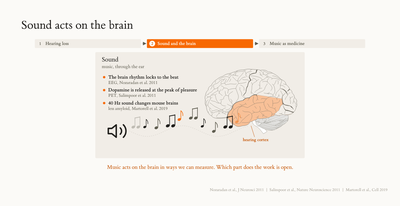
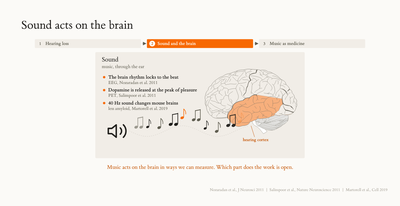
Slide 25: the Für Elise demo alone, larger and centered
Claude-Session: https://claude.ai/code/session_01CwywQbHke1EKdwXqbCrAvs

Changed region(s): [[0.33, 0.466, 0.72, 0.6408]]

diff --git a/graph-inside/2026-11-19-cs-colloquium/index.html b/graph-inside/2026-11-19-cs-colloquium/index.html
@@ -1250,7 +1250,7 @@ else if(m==1){var d1=(i==FI.length-1)?2600:1500;if(now-last>d1){i=(i+1)%FI.lengt
 
 <section data-ch="2">
   <h2>A tiny graph is enough to represent a piece of music</h2><span class="graphtag"><svg viewBox="0 0 22 14"><line x1="3" y1="11" x2="11" y2="3" stroke="currentColor" stroke-width="1.3"/><line x1="11" y1="3" x2="19" y2="11" stroke="currentColor" stroke-width="1.3"/><line x1="3" y1="11" x2="19" y2="11" stroke="currentColor" stroke-width="1.3"/><circle cx="3" cy="11" r="2.4" fill="currentColor"/><circle cx="11" cy="3" r="2.4" fill="currentColor"/><circle cx="19" cy="11" r="2.4" fill="currentColor"/></svg><b>graph 5 of 7</b> note transition graph, a Markov chain</span><span class="status progress">In progress</span>
-  <svg viewBox="0 0 1180 478" style="width:100%;max-width:1160px;height:auto;max-height:478px;display:block;margin:0 auto"><defs><marker id="dm2a" viewBox="0 0 10 10" refX="8" refY="5" markerWidth="6" markerHeight="6" orient="auto-start-reverse"><path d="M0,0 L10,5 L0,10 z" fill="#5F5D50"/></marker><marker id="dm2o" viewBox="0 0 10 10" refX="8" refY="5" markerWidth="6" markerHeight="6" orient="auto-start-reverse"><path d="M0,0 L10,5 L0,10 z" fill="#F76902"/></marker><marker id="dm2t" viewBox="0 0 10 10" refX="8" refY="5" markerWidth="6" markerHeight="6" orient="auto-start-reverse"><path d="M0,0 L10,5 L0,10 z" fill="#4C5B66"/></marker><marker id="dm2k" viewBox="0 0 10 10" refX="8" refY="5" markerWidth="6" markerHeight="6" orient="auto-start-reverse"><path d="M0,0 L10,5 L0,10 z" fill="#1F1E1B"/></marker><marker id="dm2g" viewBox="0 0 10 10" refX="8" refY="5" markerWidth="6" markerHeight="6" orient="auto-start-reverse"><path d="M0,0 L10,5 L0,10 z" fill="#ACA39A"/></marker><radialGradient id="dm2gl"><stop offset="0" stop-color="#F76902" stop-opacity=".5"/><stop offset="1" stop-color="#F76902" stop-opacity="0"/></radialGradient><radialGradient id="dm2gt"><stop offset="0" stop-color="#4C5B66" stop-opacity=".45"/><stop offset="1" stop-color="#4C5B66" stop-opacity="0"/></radialGradient></defs><defs><marker id="axk" viewBox="0 0 10 10" refX="8" refY="5" markerWidth="5" markerHeight="5" orient="auto"><path d="M0,0 L10,5 L0,10 z" fill="#1F1E1B"/></marker></defs><foreignObject x="20" y="10" width="740" height="410"><div xmlns="http://www.w3.org/1999/xhtml" style="width:740px;height:410px;border-radius:3px;overflow:hidden;box-shadow:0 0 0 1.5px #D7D2CB,0 10px 30px rgba(17,17,17,.10)"><iframe class="fe-frame" data-src="figs/fe-chain.html?autoplay=1" title="Für Elise Markov chain" style="width:740px;height:410px;border:0;background:#fff"></iframe></div></foreignObject><text x="790" y="34" font-size="16.5" font-weight="600" fill="#5F5D50" text-anchor="start" >Coming up in Part 2</text><rect x="790" y="50" width="370" height="80" rx="3" fill="#F1EDE7" stroke="none" stroke-width="0" /><circle cx="818" cy="90" r="13" fill="#4C5B66" stroke="none" stroke-width="1.5" /><text x="818" y="95" font-size="16" font-weight="600" fill="#fff" text-anchor="middle" >1</text><text x="846" y="84" font-size="19" font-weight="600" fill="#1F1E1B" text-anchor="start" >This graph names the style</text><text x="846" y="108" font-size="16" font-weight="400" fill="#5F5D50" text-anchor="start" >which of 6 traditions: about 70% right</text><text x="1148" y="84" font-size="16.5" font-weight="600" fill="#4C5B66" text-anchor="end" >chance 17%</text><g class="fragment" data-fragment-index="2"><rect x="790" y="142" width="370" height="80" rx="3" fill="#F1EDE7" stroke="none" stroke-width="0" /><circle cx="818" cy="182" r="13" fill="#4C5B66" stroke="none" stroke-width="1.5" /><text x="818" y="187" font-size="16" font-weight="600" fill="#fff" text-anchor="middle" >2</text><text x="846" y="176" font-size="19" font-weight="600" fill="#1F1E1B" text-anchor="start" >Richer nodes do better</text><text x="846" y="200" font-size="16" font-weight="400" fill="#5F5D50" text-anchor="start" >a node is a note plus its length</text><text x="1148" y="176" font-size="16.5" font-weight="600" fill="#4C5B66" text-anchor="end" ></text></g><g class="fragment" data-fragment-index="3"><rect x="790" y="234" width="370" height="80" rx="3" fill="#F1EDE7" stroke="none" stroke-width="0" /><circle cx="818" cy="274" r="13" fill="#4C5B66" stroke="none" stroke-width="1.5" /><text x="818" y="279" font-size="16" font-weight="600" fill="#fff" text-anchor="middle" >3</text><text x="846" y="268" font-size="19" font-weight="600" fill="#1F1E1B" text-anchor="start" >The listener's graph</text><text x="846" y="292" font-size="16" font-weight="400" fill="#5F5D50" text-anchor="start" >its surprise matches brain signals</text><text x="1148" y="268" font-size="16.5" font-weight="600" fill="#4C5B66" text-anchor="end" ></text></g><g class="fragment" data-fragment-index="4"><rect x="790" y="326" width="370" height="80" rx="3" fill="#F1EDE7" stroke="none" stroke-width="0" /><circle cx="818" cy="366" r="13" fill="#FBFAF7" stroke="#4C5B66" stroke-width="1.5" stroke-dasharray="4 3"/><text x="818" y="371" font-size="16" font-weight="600" fill="#4C5B66" text-anchor="middle" >4</text><text x="846" y="360" font-size="19" font-weight="600" fill="#1F1E1B" text-anchor="start" >A graph inside MusicGen</text><text x="846" y="384" font-size="16" font-weight="400" fill="#5F5D50" text-anchor="start" >our next step</text><text x="1148" y="360" font-size="16.5" font-weight="600" fill="#5F5D50" text-anchor="end" ></text></g><text font-family="et-book,Georgia,serif" style="font-size-adjust:none" x="590" y="466" font-size="26.0" font-weight="400" fill="#1F1E1B" text-anchor="middle" >A tiny graph already captures a style.</text></svg>
+  <svg viewBox="0 0 1180 456" style="width:100%;max-width:1160px;height:auto;max-height:456px;display:block;margin:0 auto"><defs><marker id="dm2a" viewBox="0 0 10 10" refX="8" refY="5" markerWidth="6" markerHeight="6" orient="auto-start-reverse"><path d="M0,0 L10,5 L0,10 z" fill="#5F5D50"/></marker><marker id="dm2o" viewBox="0 0 10 10" refX="8" refY="5" markerWidth="6" markerHeight="6" orient="auto-start-reverse"><path d="M0,0 L10,5 L0,10 z" fill="#F76902"/></marker><marker id="dm2t" viewBox="0 0 10 10" refX="8" refY="5" markerWidth="6" markerHeight="6" orient="auto-start-reverse"><path d="M0,0 L10,5 L0,10 z" fill="#4C5B66"/></marker><marker id="dm2k" viewBox="0 0 10 10" refX="8" refY="5" markerWidth="6" markerHeight="6" orient="auto-start-reverse"><path d="M0,0 L10,5 L0,10 z" fill="#1F1E1B"/></marker><marker id="dm2g" viewBox="0 0 10 10" refX="8" refY="5" markerWidth="6" markerHeight="6" orient="auto-start-reverse"><path d="M0,0 L10,5 L0,10 z" fill="#ACA39A"/></marker><radialGradient id="dm2gl"><stop offset="0" stop-color="#F76902" stop-opacity=".5"/><stop offset="1" stop-color="#F76902" stop-opacity="0"/></radialGradient><radialGradient id="dm2gt"><stop offset="0" stop-color="#4C5B66" stop-opacity=".45"/><stop offset="1" stop-color="#4C5B66" stop-opacity="0"/></radialGradient></defs><defs><marker id="axk" viewBox="0 0 10 10" refX="8" refY="5" markerWidth="5" markerHeight="5" orient="auto"><path d="M0,0 L10,5 L0,10 z" fill="#1F1E1B"/></marker></defs><foreignObject x="190" y="6" width="800" height="444"><div xmlns="http://www.w3.org/1999/xhtml" style="width:800px;height:444px;border-radius:3px;overflow:hidden;box-shadow:0 0 0 1.5px #D7D2CB,0 10px 30px rgba(17,17,17,.10)"><iframe class="fe-frame" data-src="figs/fe-chain.html?autoplay=1" title="Für Elise Markov chain" style="width:800px;height:444px;border:0;background:#fff"></iframe></div></foreignObject></svg>
   <div class="ref">Für Elise opening, animation from zhiqian.ai. Style results: zhiqian.ai/music-markov</div>
   <aside class="notes">If sound fails: skip the click, point at the arrows, and say the ball walks the graph, one move per note. Sound: click the animation once for sound, click again to mute, the animation keeps going. Let the ball learn the opening, then compose. Then the point: this little graph is not a toy. The same 144 numbers per piece, fed to a plain classifier, name the tradition of a piece it has never seen 70.2% of the time across 992 melodies in six corpora, against 41.9% for note counts without order. Bridge: to compare pieces, fold the keys.</aside>
 </section>

diff --git a/graph-inside/2026-11-19-cs-colloquium/src/talk.py b/graph-inside/2026-11-19-cs-colloquium/src/talk.py
@@ -733,22 +733,10 @@ VECTOR = sec('Every surgery is stored as a vector', SVG(g), ch='0',
              ref='Arditi et al., NeurIPS 2024. Meng et al., NeurIPS 2022. Hu et al., LoRA, ICLR 2022. Ilharco et al., ICLR 2023',
              notes='Top row: four ways we change a model today, each drawn as what it adds. Light cells are the model, dark cells are the change: a vector added to the activations, a rank one matrix u times v transposed, LoRA as a tall thin B times a short wide A, and fine tuning as a full matrix of small changes. All the same kind of object, something added. Below, a schematic: every dot is something the model knows or does. Click: an edit moves one fact, Space Needle from Seattle to Paris, that arrow is the vector we added. Click: the ripple effect. Facts that depend on this one should move with it: which country, now France, which currency, now euro. The dashed arrows show where they should go. They do not move. RippleEdits and MQuAKE measure exactly this. Click: locality, the other failure. Facts that have nothing to do with the edit should stay put, and some drift a little anyway. The arrow tells you neither. The dots are an illustration, not data. If asked whether this is solved: no. The 2026 methods that do better, circuit-aware editing and joint neighborhood optimization, all stop editing one point and start editing along the structure. Click: the takeaway. Four surgeries, four one line formulas a CS audience can read. ROME is a rank one LoRA on one layer, which links knowledge editing to something most of the room has used. The point is not the math, it is that each operation is a single added object, and that object carries no information about its side effects. The tools we use to understand models read them the same way: a linear probe, a sparse autoencoder feature, a steering direction, all vectors. Bridge: yet the knowledge these models hold has another shape, a graph, in text, in images and in music.')
 
-# ---- demo: a tiny graph is enough to represent a piece ----
+# ---- demo: a tiny graph is enough to represent a piece (his note Nov 19: the demo alone, nothing else) ----
 g = adefs('dm2')
-g += f'<foreignObject x="20" y="10" width="740" height="410"><div xmlns="http://www.w3.org/1999/xhtml" style="width:740px;height:410px;border-radius:12px;overflow:hidden;box-shadow:0 0 0 1.5px #d3d7da,0 10px 30px rgba(17,17,17,.10)"><iframe class="fe-frame" data-src="figs/fe-chain.html?autoplay=1" title="Für Elise Markov chain" style="width:740px;height:410px;border:0;background:#fff"></iframe></div></foreignObject>'
-g += T(790, 34, 'Coming up in Part 2', 15, 600, MUT)
-MENU = [('1', 'This graph names the style', 'which of 6 traditions: about 70% right', 'chance 17%', False),
-        ('2', 'Richer nodes do better', 'a node is a note plus its length', '', False),
-        ('3', "The listener's graph", 'its surprise matches brain signals', '', False),
-        ('4', 'A graph inside MusicGen', 'our next step', '', True)]
-for k, (num, name, line, val, plan) in enumerate(MENU):
-    y = 50 + k * 92
-    row = R(790, y, 370, 80, SOFT, 'none', 0, 3)
-    row += (C(818, y + 40, 13, '#fff', MU, 1.5, 'stroke-dasharray="4 3"') + T(818, y + 45, num, 14, 600, MU, 'middle')) if plan else (C(818, y + 40, 13, MU) + T(818, y + 45, num, 14, 600, '#fff', 'middle'))
-    row += T(846, y + 34, name, 18, 600, INK) + T(846, y + 58, line, 14, 400, MUT) + T(1148, y + 34, val, 15, 600, MU if not plan else MUT, 'end')
-    g += F(k + 1, row) if k else row
-g += T(590, 466, 'A tiny graph already captures a style.', 20, 700, INK, 'middle')
-DEMO2 = sec('A tiny graph is enough to represent a piece of music', SVG(g), ch='0', status='prog',
+g += f'<foreignObject x="190" y="6" width="800" height="444"><div xmlns="http://www.w3.org/1999/xhtml" style="width:800px;height:444px;border-radius:12px;overflow:hidden;box-shadow:0 0 0 1.5px #d3d7da,0 10px 30px rgba(17,17,17,.10)"><iframe class="fe-frame" data-src="figs/fe-chain.html?autoplay=1" title="Für Elise Markov chain" style="width:800px;height:444px;border:0;background:#fff"></iframe></div></foreignObject>'
+DEMO2 = sec('A tiny graph is enough to represent a piece of music', SVG(g, 456), ch='0', status='prog',
             ref='Für Elise opening, animation from zhiqian.ai. Style results: zhiqian.ai/music-markov',
             notes='Sound: click the animation once for sound, click again to mute, the animation keeps going. Let the ball learn the opening, then compose. Then the point: this little graph is not a toy. The same 144 numbers per piece, fed to a plain classifier, name the tradition of a piece it has never seen 70.2% of the time across 992 melodies in six corpora, against 41.9% for note counts without order.')
 

diff --git a/graph-inside/2026-11-19-cs-colloquium/docs/storyline-zh.md b/graph-inside/2026-11-19-cs-colloquium/docs/storyline-zh.md
@@ -122,9 +122,7 @@
 **24. A new idea is a new edge, and so is a new style of music**（120）四本讲创造力的书和 Uzzi 2013：新想法就是旧想法之间的一条新边。下面是音乐流派家族树和我们 2017 年的 FusionGAN。
 说："A new idea is a new edge. In 2017 we asked whether a model can draw one."
 
-**25. A tiny graph is enough to represent a piece of music**（90）Für Elise 动画，小球沿着音符图走，点一下有声音。从开场移到这里。
-说："Nine notes, a few arrows. The whole model is the graph."
-
+**25. A tiny graph is enough to represent a piece of music**（60）只放 demo，放大居中，没有别的。动画先边听 Für Elise 边画箭头（学习：数哪个音后面跟哪个音），再沿着箭头随机走（作曲）。点一下动画开声音，再点一下静音。这就是一阶 Markov 链，下一页用同一个模型做分类。
 **26. Fold 88 keys into 12 scale degrees**（105，graph 3）手画的 Für Elise 开头九个音，折成 12 个音级，变成 12 乘 12 的表。两个播放键：原曲和从表里生成的曲子。
 新动画（第 3 下）：12 × 12 矩阵的 12 行依次滑下去、首尾相接排成一条长条，就是 144 个数的向量，下面写 → logistic regression → which of 6 traditions?。第 4 下出现两个播放按钮。和第 25 页的区别：第 25 页的图用的是具体音高（带八度），每首曲子节点不同。这里折叠成 12 个音级，每首曲子都是同样的 144 个格子，才能放进同一个分类器。
 说："The right notes with the wrong sentences. That is a graph with one note of memory."
